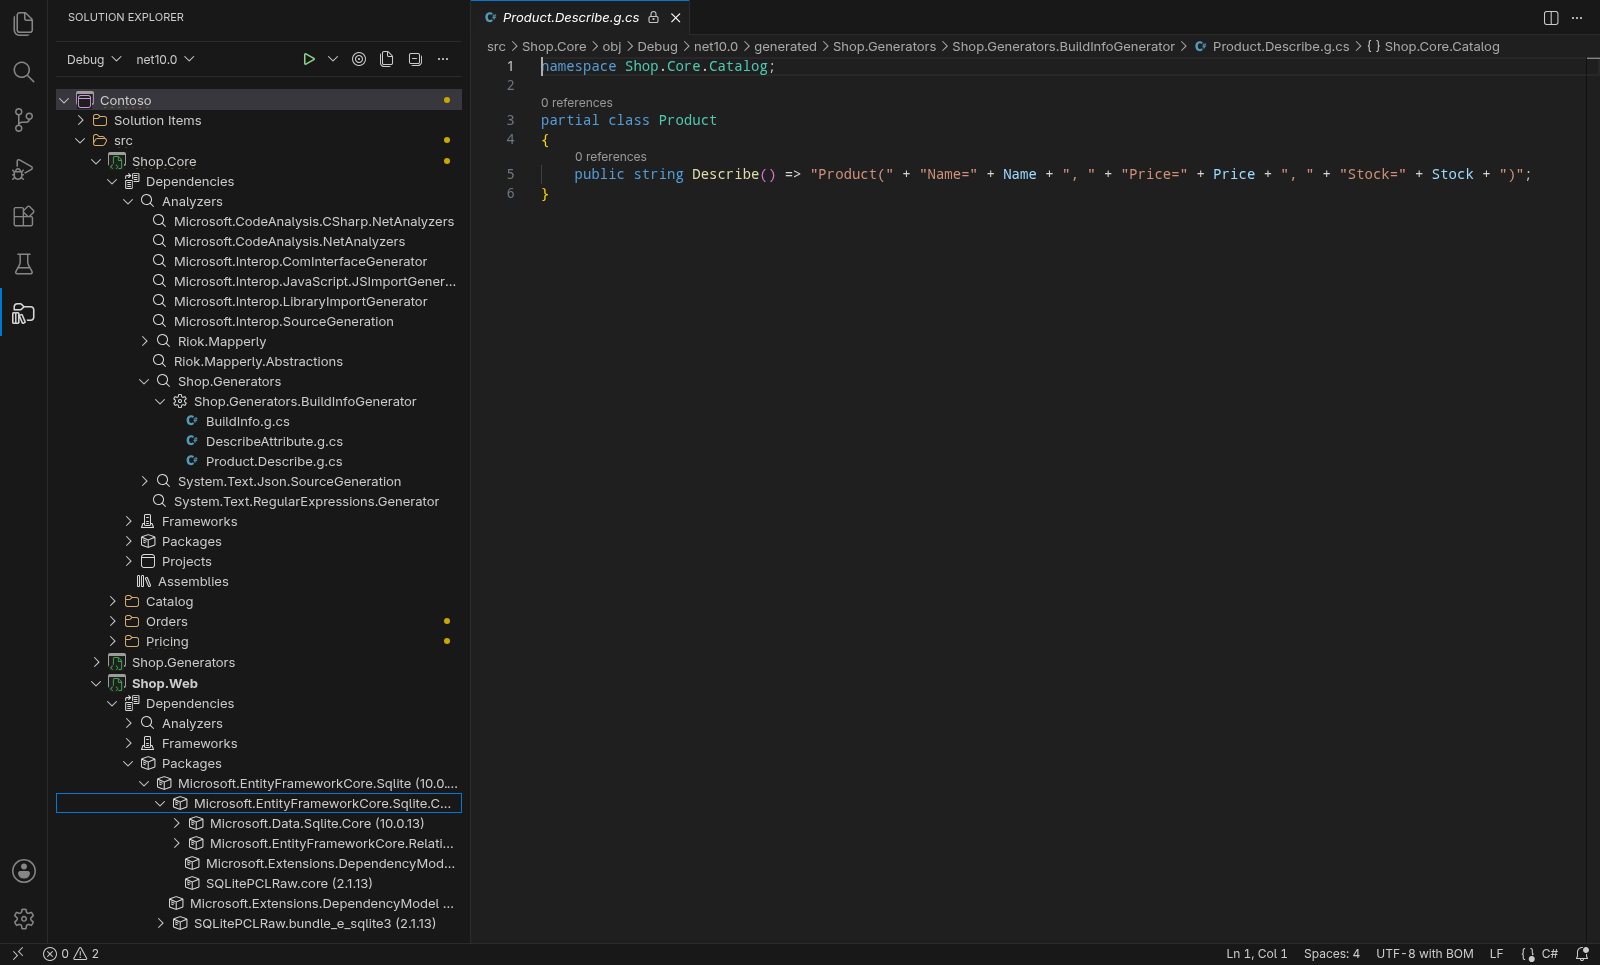
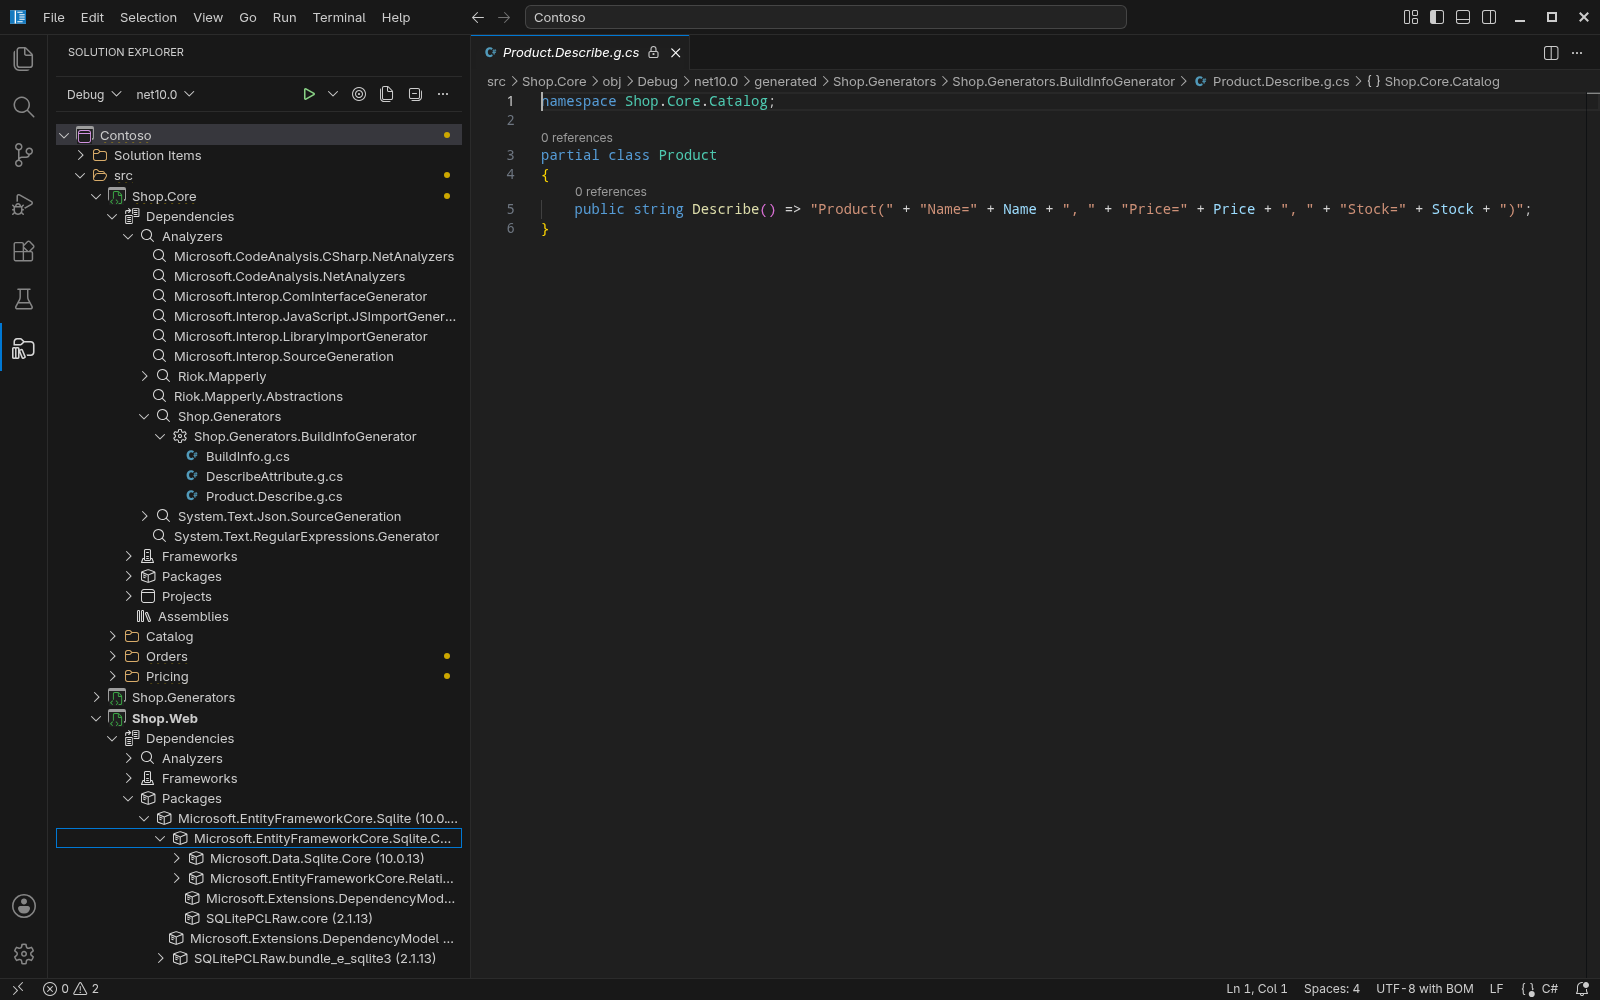
Screenshots and GIFs regenerated (title bar kept, no stray debug session, dialogs centered, panel closed); capture.sh installs the extension from a .vsix and stops sessions with Shift+F5; sample opens no browser; NuGet manager tabs fill the editor height with flex instead of calc(100vh - 120px)

diff --git a/src/webview/nuget-view/App.tsx b/src/webview/nuget-view/App.tsx
@@ -710,7 +710,7 @@ export const App: React.FC = () => {
     const sourceOptions = [{ value: '', label: 'All' }, ...[...(data.sources ?? [])].map(source => ({ value: source.name, label: source.name }))];
 
     const browseView = (
-        <div style={{ display: 'flex', flexDirection: 'column', height: 'calc(100vh - 120px)' }}>
+        <div style={{ display: 'flex', flexDirection: 'column', width: '100%' }}>
             {/* Search Input */}
             <div style={{
                 paddingBottom: '12px',
@@ -819,7 +819,7 @@ export const App: React.FC = () => {
     );
 
     const installedView = (
-        <div style={{ display: 'flex', flexDirection: 'column', height: 'calc(100vh - 120px)' }}>
+        <div style={{ display: 'flex', flexDirection: 'column', width: '100%' }}>
             {/* Search and Filter */}
             <div style={{
                 paddingBottom: '12px',
@@ -927,7 +927,7 @@ export const App: React.FC = () => {
     );
 
     const updatesView = (
-        <div style={{ display: 'flex', flexDirection: 'column', height: 'calc(100vh - 120px)' }}>
+        <div style={{ display: 'flex', flexDirection: 'column', width: '100%' }}>
             {/* Search and Filter */}
             <div style={{
                 paddingBottom: '12px',
@@ -1147,7 +1147,7 @@ export const App: React.FC = () => {
     );
 
     const consolidateView = (
-        <div style={{ display: 'flex', flexDirection: 'column', height: 'calc(100vh - 120px)' }}>
+        <div style={{ display: 'flex', flexDirection: 'column', width: '100%' }}>
             {/* Search and Filter */}
             <div style={{
                 paddingBottom: '12px',
@@ -1268,6 +1268,11 @@ export const App: React.FC = () => {
     return (
         <div style={{ height: '100vh', display: 'flex', flexDirection: 'column', position: 'relative' }}>
             <style>{`
+                /* The tab strip keeps its height (left aligned), the open tab fills the rest of the editor */
+                .nuget-panels { display: flex; flex-direction: column; flex-grow: 1; min-height: 0; }
+                .nuget-panels .vscrui-panels__tablist { display: flex; align-self: flex-start; flex: none; }
+                .nuget-panels .vscrui-panels__views { display: flex; flex-direction: row; flex-grow: 1; min-height: 0; }
+                .nuget-panels .vscrui-view:not([hidden]) { display: flex; flex-grow: 1; min-height: 0; }
                 .nuget-panels [role="tab"][aria-selected="true"] {
                     border-bottom: 2px solid var(--vscode-focusBorder) !important;
                 }

diff --git a/CHANGELOG.md b/CHANGELOG.md
@@ -2,6 +2,7 @@
 
 ## Unreleased
 
+- **Fixed, NuGet manager:** the tab content fills the editor's height instead of stopping a guessed 120 px short, which left a gap at the bottom and could push buttons out of view when the panel was open.
 - **Fixed, solution and project files:** a `.sln` with a stray line between two project blocks, or a block without `EndProject`, no longer drops the projects after it; two quick edits of the solution (drag and drop, context actions) are applied one after the other instead of one overwriting the other; a project file edited from outside with the same size and timestamp is no longer taken for our own write; removing the last item of an `<ItemGroup Condition=...>` removes the group; item-like text inside `<![CDATA[`...`]]>` is ignored.
 - **Fixed, feed credentials:** entering a token for a feed (`MyFeed`) no longer rewrites the credentials of a feed whose name starts the same (`MyFeed-Preview`) and removes the first feed's own password; a token is never written into a commented-out block; a user name containing `$&` is stored as typed. If the credentials sit in a NuGet.Config inside your workspace or a git checkout, you are asked before a new token is saved there, and can save it to your user NuGet.Config instead.
 - **Solution Explorer toolbar:** one ▷ Start button (its arrow lists Start Without Debugging, Start with Hot Reload and Attach to Process...) instead of three start buttons; Sync with Active Document has a clearer icon and tooltip; The framework button (`net10.0 ▾`) is a menu of the startup project's target frameworks and Startup Profile... instead of a quick pick. Open Solution... and Create New Project... are in the toolbar's `...` menu. The view's title bar reads "Solution Explorer" and has no buttons.
